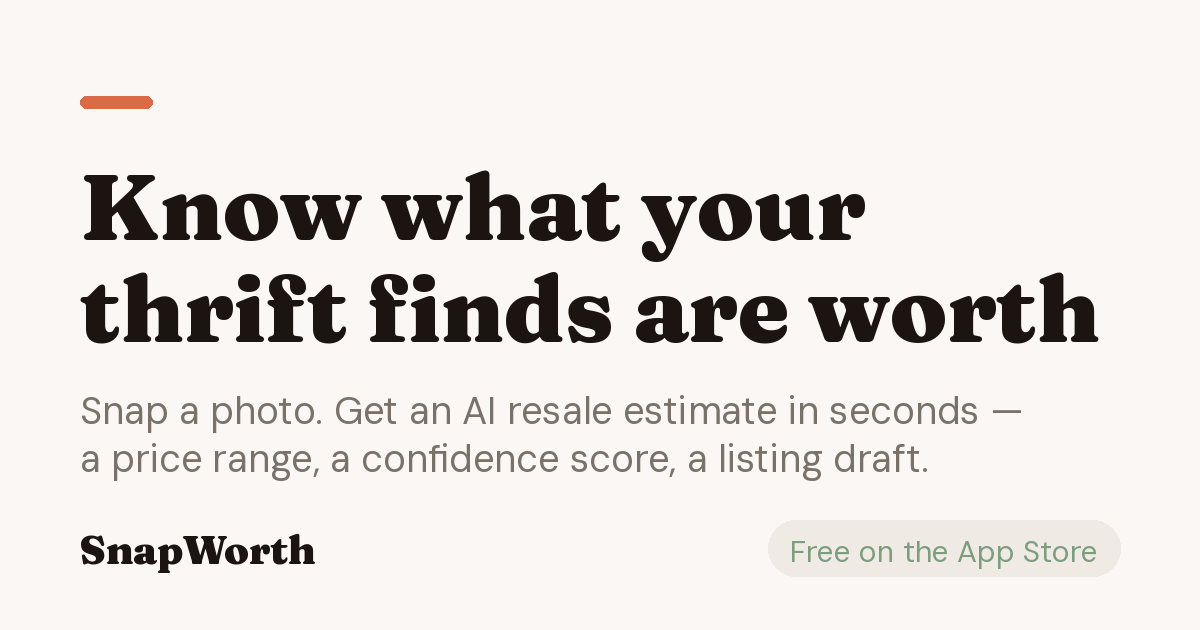
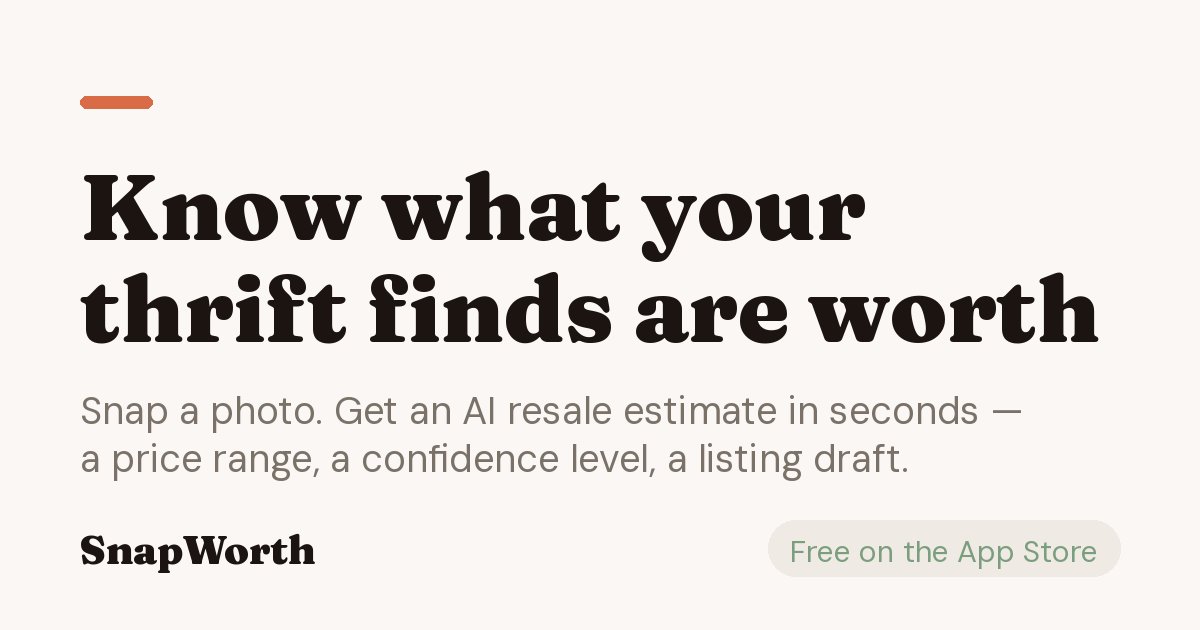
website: name all nine marketplaces, and "confidence level" everywhere
The homepage named seven marketplaces in the strip under the hero, the
listing-writer feature, the FAQ ("seven, each in that marketplace's own
voice") and the FAQ's JSON-LD. The app has nine since f784da8 added
Kleinanzeigen and 闲鱼 (Xianyu) in 1.4.2, and the backend writes listings
for both. The calculator's FEES table already carried both rates, but no
chip could select them. The German and Chinese visitors 1.4.2 was built
for didn't see their marketplace named anywhere on the page.

Both now appear in each list, and as two more calculator chips. The fee
footnote under the calculator adds both to the no-seller-fee sentence,
which is what MarketplaceFees.defaults says. 闲鱼 is marked lang="zh-Hans"
so a screen reader switches voice for it, with the romanised name after
it for everyone else.

"Confidence score" was replaced with "confidence level" on index.html and
support.html in cb92610, because the app shows a band, not a number. The
two generators were missed: build_seo.py wrote "score" into all 17 /worth
pages, and build_og_image.py baked it into og-image.png, the preview on
every shared link. Both say "level" now. The pages and the image are
regenerated. The image differs from the old one only in that line (pixel
diff bbox 571,443–927,481); the unchanged generator reproduced the
committed PNG byte for byte before the edit.

Changed region(s): [[0.4625, 0.6937, 0.7708, 0.7841]]

diff --git a/website/index.html b/website/index.html
@@ -1858,9 +1858,9 @@ details[open] .faq-x::after { transform: rotate(90deg); }
                   </div>
                   <div class="app-card">
                     <div class="app-card-label">Sell it on</div>
-                    <!-- Three, not all seven: .pf-chip is flex:1 in a 184px row, so a
+                    <!-- Three, not all nine: .pf-chip is flex:1 in a 184px row, so a
                          fourth label squeezes every pill to min-content and the text
-                         touches the border. The strip below the hero names all seven. -->
+                         touches the border. The strip below the hero names all nine. -->
                     <div class="pf-chips">
                       <span class="pf-chip is-on">Poshmark</span>
                       <span class="pf-chip">Mercari</span>
@@ -1940,7 +1940,7 @@ details[open] .faq-x::after { transform: rotate(90deg); }
       <div class="hd-strip">
         <span class="hd-strip-label">Listing drafts written for</span>
         <div class="hd-strip-list">
-          <span>Poshmark</span><span>Mercari</span><span>Depop</span><span>eBay</span><span>Vinted</span><span>Facebook Marketplace</span><span>OLX</span>
+          <span>Poshmark</span><span>Mercari</span><span>Depop</span><span>eBay</span><span>Vinted</span><span>Facebook Marketplace</span><span>OLX</span><span>Kleinanzeigen</span><span><span lang="zh-Hans">闲鱼</span> (Xianyu)</span>
         </div>
       </div>
     </div>
@@ -2011,9 +2011,9 @@ details[open] .faq-x::after { transform: rotate(90deg); }
        A live calculator, not a screenshot of one. Fee rates are the ones the
        app actually uses (MarketplaceFees.swift): Poshmark 20% (a flat $2.95
        under $15), Mercari 10%, Depop 3.3% + $0.45, eBay 13.25% + $0.40;
-       Vinted, Facebook Marketplace and OLX take no seller fee. A calculator on
-       the marketing site that disagreed with the product would be worse than
-       none.
+       Vinted, Facebook Marketplace, OLX, Kleinanzeigen and Xianyu take no
+       seller fee. A calculator on the marketing site that disagreed with the
+       product would be worse than none.
 
        Rendered with real default values in the HTML, so with JavaScript off it
        still reads as a worked example rather than a set of empty boxes. -->
@@ -2043,6 +2043,8 @@ details[open] .faq-x::after { transform: rotate(90deg); }
               <button type="button" class="tf-chip" data-mp="vinted" aria-pressed="false">Vinted</button>
               <button type="button" class="tf-chip" data-mp="facebook" aria-pressed="false">Facebook Marketplace</button>
               <button type="button" class="tf-chip" data-mp="olx" aria-pressed="false">OLX</button>
+              <button type="button" class="tf-chip" data-mp="kleinanzeigen" aria-pressed="false">Kleinanzeigen</button>
+              <button type="button" class="tf-chip" data-mp="xianyu" aria-pressed="false"><span lang="zh-Hans">闲鱼</span> (Xianyu)</button>
             </div>
           </div>
           <div class="tf-inputs">
@@ -2106,7 +2108,7 @@ details[open] .faq-x::after { transform: rotate(90deg); }
           <a href="#pricing" class="tf-foot-cta">See pricing</a>
         </div>
         <div class="tf-foot-note">
-          Poshmark takes <strong>20%</strong>, or a flat <strong>$2.95</strong> on sales under $15. Mercari takes <strong>10%</strong>, Depop <strong>3.3% + $0.45</strong> and eBay <strong>13.25% + $0.40</strong>. Vinted, Facebook Marketplace and OLX take no seller fee, so the only costs are the shop price and shipping. Rates are approximate and reviewed against each marketplace&rsquo;s published schedule.
+          Poshmark takes <strong>20%</strong>, or a flat <strong>$2.95</strong> on sales under $15. Mercari takes <strong>10%</strong>, Depop <strong>3.3% + $0.45</strong> and eBay <strong>13.25% + $0.40</strong>. Vinted, Facebook Marketplace, OLX, Kleinanzeigen and <span lang="zh-Hans">闲鱼</span> (Xianyu) take no seller fee, so the only costs are the shop price and shipping. Rates are approximate and reviewed against each marketplace&rsquo;s published schedule.
         </div>
       </div>
     </div>
@@ -2181,7 +2183,7 @@ details[open] .faq-x::after { transform: rotate(90deg); }
         <div class="feature">
           <div class="feature-icon"><svg viewBox="0 0 24 24" fill="none" stroke="currentColor" stroke-width="1.7" stroke-linecap="round" stroke-linejoin="round" aria-hidden="true"><path d="m13.2 5.8 5 5L8 21H3v-5z"/><path d="m16 3 5 5"/><path d="m8.5 15.5 5-5"/></svg></div>
           <h3>AI listing writer</h3>
-          <p>Tap once on any scan and Pro writes a compelling, SEO-optimized title and description in the voice of the marketplace you pick &mdash; Poshmark, Mercari, Depop, eBay, Vinted, Facebook Marketplace or OLX.</p>
+          <p>Tap once on any scan and Pro writes a compelling, SEO-optimized title and description in the voice of the marketplace you pick &mdash; Poshmark, Mercari, Depop, eBay, Vinted, Facebook Marketplace, OLX, Kleinanzeigen or <span lang="zh-Hans">闲鱼</span> (Xianyu).</p>
         </div>
         <div class="feature">
           <div class="feature-icon"><svg viewBox="0 0 24 24" fill="none" stroke="currentColor" stroke-width="1.7" stroke-linecap="round" stroke-linejoin="round" aria-hidden="true"><path d="M4 8h16v11.2c0 .7-.6 1.3-1.3 1.3H5.3c-.7 0-1.3-.6-1.3-1.3z"/><path d="M3 4.5h18V8H3z"/><path d="M9.8 12h4.4"/></svg></div>
@@ -2291,7 +2293,7 @@ details[open] .faq-x::after { transform: rotate(90deg); }
           </details>
           <details>
             <summary>Which marketplaces does it cover?<span class="faq-x" aria-hidden="true"></span></summary>
-            <p>Listing drafts are written for Poshmark, Mercari, Depop, eBay, Vinted, Facebook Marketplace and OLX &mdash; seven, each in that marketplace&rsquo;s own voice. Thrift Flip runs the profit math with each one&rsquo;s real seller fees &mdash; the same rates the app uses, so the number you see here is the number you&rsquo;d see there.</p>
+            <p>Listing drafts are written for Poshmark, Mercari, Depop, eBay, Vinted, Facebook Marketplace, OLX, Kleinanzeigen and <span lang="zh-Hans">闲鱼</span> (Xianyu) &mdash; nine, each in that marketplace&rsquo;s own voice. Thrift Flip runs the profit math with each one&rsquo;s real seller fees &mdash; the same rates the app uses, so the number you see here is the number you&rsquo;d see there.</p>
           </details>
           <details>
             <summary>Where does my scan history live?<span class="faq-x" aria-hidden="true"></span></summary>
@@ -2310,7 +2312,7 @@ details[open] .faq-x::after { transform: rotate(90deg); }
     {"@type":"Question","name":"How accurate are the estimates?","acceptedAnswer":{"@type":"Answer","text":"Each scan returns a price range and a confidence level, drawn from the AI's broad knowledge of what things typically resell for — not live marketplace comps, and not an appraisal. Clear photos of tags and logos get the best results."}},
     {"@type":"Question","name":"Is it really free?","acceptedAnswer":{"@type":"Answer","text":"Yes — one free scan a day, forever, with no account and no card. Pro removes the daily limit and adds the AI listing writer: $4.99 a month, or $39.99 a year with a 3-day free trial."}},
     {"@type":"Question","name":"What can I scan?","acceptedAnswer":{"@type":"Answer","text":"Anything secondhand: clothing, shoes, bags, kitchenware, electronics, furniture and collectibles."}},
-    {"@type":"Question","name":"Which marketplaces does it cover?","acceptedAnswer":{"@type":"Answer","text":"Listing drafts are written for Poshmark, Mercari, Depop, eBay, Vinted, Facebook Marketplace and OLX, each in that marketplace's own voice, and Thrift Flip runs the profit math with each one's real seller fees."}},
+    {"@type":"Question","name":"Which marketplaces does it cover?","acceptedAnswer":{"@type":"Answer","text":"Listing drafts are written for Poshmark, Mercari, Depop, eBay, Vinted, Facebook Marketplace, OLX, Kleinanzeigen and 闲鱼 (Xianyu), each in that marketplace's own voice, and Thrift Flip runs the profit math with each one's real seller fees."}},
     {"@type":"Question","name":"Where does my scan history live?","acceptedAnswer":{"@type":"Answer","text":"On your device. Your finds are saved locally — searchable, sortable by value, with a running portfolio total."}},
     {"@type":"Question","name":"Is there an Android version?","acceptedAnswer":{"@type":"Answer","text":"SnapWorth is iPhone-only today."}}
   ]}
@@ -2666,7 +2668,7 @@ details[open] .faq-x::after { transform: rotate(90deg); }
  *   Mercari  10%
  *   Depop    3.3% + $0.45
  *   eBay     13.25% + $0.40
- *   Vinted / Facebook Marketplace / OLX — no seller fee
+ *   Vinted / Facebook Marketplace / OLX / Kleinanzeigen / Xianyu — no seller fee
  * If those change in the app, change them here too. A marketing calculator
  * that disagrees with the product is worse than no calculator.
  *

diff --git a/website/worth/index.html b/website/worth/index.html
@@ -101,7 +101,7 @@ footer.site a{color:var(--warm-gray);margin-right:16px;}
 <p class="lede">Typical secondhand resale values for popular items, plus what drives the price and where to sell. Want a range for your own item and its condition? Snap a photo with SnapWorth.</p>
 <p class="hub-game">Or find out how good your eye already is &mdash; <a href="/guess">guess the price on ten of these</a>.</p>
 <h2>Accessories</h2><div class='grid'><a href="/worth/ray-ban-wayfarer-sunglasses">Ray-Ban Wayfarer Sunglasses<span>$30–$90</span></a></div><h2>Bags</h2><div class='grid'><a href="/worth/coach-leather-handbag">Coach Leather Handbag<span>$40–$150</span></a></div><h2>Clothing</h2><div class='grid'><a href="/worth/patagonia-better-sweater">Patagonia Better Sweater<span>$25–$85</span></a><a href="/worth/north-face-nuptse-700">The North Face Nuptse 700<span>$80–$200</span></a><a href="/worth/levis-501-vintage">Vintage Levi&#x27;s 501 Jeans<span>$20–$90</span></a><a href="/worth/carhartt-detroit-jacket">Carhartt Detroit Jacket<span>$45–$150</span></a><a href="/worth/lululemon-align-leggings">Lululemon Align Leggings<span>$20–$60</span></a><a href="/worth/ralph-lauren-polo-sweater">Ralph Lauren Polo Sweater<span>$20–$70</span></a><a href="/worth/vintage-band-t-shirt">Vintage Band T-Shirt<span>$25–$200</span></a></div><h2>Home</h2><div class='grid'><a href="/worth/le-creuset-dutch-oven">Le Creuset Dutch Oven<span>$70–$250</span></a><a href="/worth/vintage-pyrex-bowls">Vintage Pyrex Bowls<span>$18–$120</span></a><a href="/worth/stanley-quencher-tumbler">Stanley Quencher Tumbler<span>$20–$60</span></a><a href="/worth/kitchenaid-stand-mixer">KitchenAid Stand Mixer<span>$120–$300</span></a></div><h2>Shoes</h2><div class='grid'><a href="/worth/nike-air-max-90">Nike Air Max 90<span>$40–$120</span></a><a href="/worth/dr-martens-1460-boots">Dr. Martens 1460 Boots<span>$40–$110</span></a><a href="/worth/birkenstock-arizona-sandals">Birkenstock Arizona Sandals<span>$25–$70</span></a></div>
-<div class="cta"><h3>Check your own item in seconds</h3><p>Typical ranges only go so far. Snap a photo of your thrift find and SnapWorth's AI estimates a resale range for your item and its condition, with a confidence score.</p><a href="https://apps.apple.com/us/app/snapworth-resale-scanner/id6788521307">Download SnapWorth — free</a></div>
+<div class="cta"><h3>Check your own item in seconds</h3><p>Typical ranges only go so far. Snap a photo of your thrift find and SnapWorth's AI estimates a resale range for your item and its condition, with a confidence level.</p><a href="https://apps.apple.com/us/app/snapworth-resale-scanner/id6788521307">Download SnapWorth — free</a></div>
 </div></main>
 <footer class="site"><div class="wrap"><a href="/">Home</a><a href="/worth">Resale Values</a><a href="/support">Support</a><a href="https://api.snapworth.eu/privacy">Privacy</a><div style="margin-top:12px">© 2026 SnapWorth</div></div></footer>
 </body></html>

diff --git a/website/worth/levis-501-vintage.html b/website/worth/levis-501-vintage.html
@@ -114,7 +114,7 @@ footer.site a{color:var(--warm-gray);margin-right:16px;}
 <h2>Best places to sell Vintage Levi&#x27;s 501 Jeans</h2>
 <ul><li>eBay</li><li>Depop</li><li>Etsy</li><li>Grailed</li></ul>
 
-<div class="cta"><h3>Check your own item in seconds</h3><p>Typical ranges only go so far. Snap a photo of your Vintage Levi&#x27;s 501 Jeans and SnapWorth's AI estimates a resale range for your item and its condition, with a confidence score.</p><a href="https://apps.apple.com/us/app/snapworth-resale-scanner/id6788521307">Download SnapWorth — free</a></div>
+<div class="cta"><h3>Check your own item in seconds</h3><p>Typical ranges only go so far. Snap a photo of your Vintage Levi&#x27;s 501 Jeans and SnapWorth's AI estimates a resale range for your item and its condition, with a confidence level.</p><a href="https://apps.apple.com/us/app/snapworth-resale-scanner/id6788521307">Download SnapWorth — free</a></div>
 
 <h2>Frequently asked questions</h2>
 <details><summary>What makes vintage Levi&#x27;s valuable?</summary><p>Age markers like the big-E tab, single-stitch details, made-in-USA construction, and selvedge denim drive value. Natural fading is often a plus for vintage buyers.</p></details><details><summary>Should I list jeans by tag size or measured size?</summary><p>Always include measured waist and inseam. Vintage sizing runs small and buyers filter by measurements, which reduces returns and raises trust.</p></details>

diff --git a/website/worth/patagonia-better-sweater.html b/website/worth/patagonia-better-sweater.html
@@ -114,7 +114,7 @@ footer.site a{color:var(--warm-gray);margin-right:16px;}
 <h2>Best places to sell a Patagonia Better Sweater</h2>
 <ul><li>Poshmark</li><li>eBay</li><li>Grailed</li><li>Depop</li></ul>
 
-<div class="cta"><h3>Check your own item in seconds</h3><p>Typical ranges only go so far. Snap a photo of your Patagonia Better Sweater and SnapWorth's AI estimates a resale range for your item and its condition, with a confidence score.</p><a href="https://apps.apple.com/us/app/snapworth-resale-scanner/id6788521307">Download SnapWorth — free</a></div>
+<div class="cta"><h3>Check your own item in seconds</h3><p>Typical ranges only go so far. Snap a photo of your Patagonia Better Sweater and SnapWorth's AI estimates a resale range for your item and its condition, with a confidence level.</p><a href="https://apps.apple.com/us/app/snapworth-resale-scanner/id6788521307">Download SnapWorth — free</a></div>
 
 <h2>Frequently asked questions</h2>
 <details><summary>Are older Patagonia fleeces worth more?</summary><p>Some discontinued colorways and vintage Synchilla pieces command a premium, but most Better Sweaters resell on condition and color rather than age.</p></details><details><summary>Does Patagonia&#x27;s warranty affect resale?</summary><p>Yes — Patagonia&#x27;s Ironclad Guarantee and repair service give buyers confidence, which supports higher secondhand prices than comparable fleeces.</p></details>

diff --git a/website/worth/north-face-nuptse-700.html b/website/worth/north-face-nuptse-700.html
@@ -114,7 +114,7 @@ footer.site a{color:var(--warm-gray);margin-right:16px;}
 <h2>Best places to sell a North Face Nuptse 700</h2>
 <ul><li>Grailed</li><li>eBay</li><li>Depop</li><li>Poshmark</li></ul>
 
-<div class="cta"><h3>Check your own item in seconds</h3><p>Typical ranges only go so far. Snap a photo of your North Face Nuptse 700 and SnapWorth's AI estimates a resale range for your item and its condition, with a confidence score.</p><a href="https://apps.apple.com/us/app/snapworth-resale-scanner/id6788521307">Download SnapWorth — free</a></div>
+<div class="cta"><h3>Check your own item in seconds</h3><p>Typical ranges only go so far. Snap a photo of your North Face Nuptse 700 and SnapWorth's AI estimates a resale range for your item and its condition, with a confidence level.</p><a href="https://apps.apple.com/us/app/snapworth-resale-scanner/id6788521307">Download SnapWorth — free</a></div>
 
 <h2>Frequently asked questions</h2>
 <details><summary>How do I tell a real Nuptse from a fake?</summary><p>Check the stitching on the logo, the RDS down tag, zipper quality, and the interior neck label. Replicas are common, so clear photos raise buyer trust and price.</p></details><details><summary>When do puffers sell for the most?</summary><p>Demand and prices peak in autumn and early winter. Listing in September–December typically gets the best offers.</p></details>

diff --git a/website/worth/vintage-band-t-shirt.html b/website/worth/vintage-band-t-shirt.html
@@ -114,7 +114,7 @@ footer.site a{color:var(--warm-gray);margin-right:16px;}
 <h2>Best places to sell a Vintage Band T-Shirt</h2>
 <ul><li>Depop</li><li>eBay</li><li>Etsy</li><li>Grailed</li></ul>
 
-<div class="cta"><h3>Check your own item in seconds</h3><p>Typical ranges only go so far. Snap a photo of your Vintage Band T-Shirt and SnapWorth's AI estimates a resale range for your item and its condition, with a confidence score.</p><a href="https://apps.apple.com/us/app/snapworth-resale-scanner/id6788521307">Download SnapWorth — free</a></div>
+<div class="cta"><h3>Check your own item in seconds</h3><p>Typical ranges only go so far. Snap a photo of your Vintage Band T-Shirt and SnapWorth's AI estimates a resale range for your item and its condition, with a confidence level.</p><a href="https://apps.apple.com/us/app/snapworth-resale-scanner/id6788521307">Download SnapWorth — free</a></div>
 
 <h2>Frequently asked questions</h2>
 <details><summary>How do I know if a band tee is truly vintage?</summary><p>Single-stitch hems, tag brands like Brockum, Giant, or Anvil, and a soft, worn feel indicate true vintage. Reprints use modern double-stitch and tags.</p></details><details><summary>Which band tees sell for the most?</summary><p>Rare metal, rap, and grunge tour tees from the &#x27;80s–&#x27;90s command the highest prices, especially in larger sizes.</p></details>

diff --git a/website/worth/stanley-quencher-tumbler.html b/website/worth/stanley-quencher-tumbler.html
@@ -114,7 +114,7 @@ footer.site a{color:var(--warm-gray);margin-right:16px;}
 <h2>Best places to sell a Stanley Quencher Tumbler</h2>
 <ul><li>Mercari</li><li>eBay</li><li>Poshmark</li><li>Facebook Marketplace</li></ul>
 
-<div class="cta"><h3>Check your own item in seconds</h3><p>Typical ranges only go so far. Snap a photo of your Stanley Quencher Tumbler and SnapWorth's AI estimates a resale range for your item and its condition, with a confidence score.</p><a href="https://apps.apple.com/us/app/snapworth-resale-scanner/id6788521307">Download SnapWorth — free</a></div>
+<div class="cta"><h3>Check your own item in seconds</h3><p>Typical ranges only go so far. Snap a photo of your Stanley Quencher Tumbler and SnapWorth's AI estimates a resale range for your item and its condition, with a confidence level.</p><a href="https://apps.apple.com/us/app/snapworth-resale-scanner/id6788521307">Download SnapWorth — free</a></div>
 
 <h2>Frequently asked questions</h2>
 <details><summary>Why do some Stanley cups resell above retail?</summary><p>Limited drops and collaborations (e.g. holiday and brand partnerships) sell out fast, pushing secondhand prices above the original price.</p></details><details><summary>Do used Stanley tumblers sell?</summary><p>Yes, at a discount — especially popular or discontinued colors, provided the lid and straw are included.</p></details>

diff --git a/website/worth/vintage-pyrex-bowls.html b/website/worth/vintage-pyrex-bowls.html
@@ -114,7 +114,7 @@ footer.site a{color:var(--warm-gray);margin-right:16px;}
 <h2>Best places to sell Vintage Pyrex Bowls</h2>
 <ul><li>eBay</li><li>Etsy</li><li>Facebook Marketplace</li><li>Mercari</li></ul>
 
-<div class="cta"><h3>Check your own item in seconds</h3><p>Typical ranges only go so far. Snap a photo of your Vintage Pyrex Bowls and SnapWorth's AI estimates a resale range for your item and its condition, with a confidence score.</p><a href="https://apps.apple.com/us/app/snapworth-resale-scanner/id6788521307">Download SnapWorth — free</a></div>
+<div class="cta"><h3>Check your own item in seconds</h3><p>Typical ranges only go so far. Snap a photo of your Vintage Pyrex Bowls and SnapWorth's AI estimates a resale range for your item and its condition, with a confidence level.</p><a href="https://apps.apple.com/us/app/snapworth-resale-scanner/id6788521307">Download SnapWorth — free</a></div>
 
 <h2>Frequently asked questions</h2>
 <details><summary>Which Pyrex patterns are most valuable?</summary><p>Rare promotional patterns like Lucky in Love, Pink Gooseberry, and Atomic Eyes command the highest prices; common patterns still sell well as sets.</p></details><details><summary>How does fading affect Pyrex value?</summary><p>Bright, un-faded prints sell for significantly more. Dishwasher-dulled pieces drop in value but still have a market.</p></details>

diff --git a/website/worth/lululemon-align-leggings.html b/website/worth/lululemon-align-leggings.html
@@ -114,7 +114,7 @@ footer.site a{color:var(--warm-gray);margin-right:16px;}
 <h2>Best places to sell Lululemon Align Leggings</h2>
 <ul><li>Poshmark</li><li>Mercari</li><li>eBay</li><li>Depop</li></ul>
 
-<div class="cta"><h3>Check your own item in seconds</h3><p>Typical ranges only go so far. Snap a photo of your Lululemon Align Leggings and SnapWorth's AI estimates a resale range for your item and its condition, with a confidence score.</p><a href="https://apps.apple.com/us/app/snapworth-resale-scanner/id6788521307">Download SnapWorth — free</a></div>
+<div class="cta"><h3>Check your own item in seconds</h3><p>Typical ranges only go so far. Snap a photo of your Lululemon Align Leggings and SnapWorth's AI estimates a resale range for your item and its condition, with a confidence level.</p><a href="https://apps.apple.com/us/app/snapworth-resale-scanner/id6788521307">Download SnapWorth — free</a></div>
 
 <h2>Frequently asked questions</h2>
 <details><summary>Why do some Align colors sell for more?</summary><p>Discontinued or limited seasonal colors become collectible, and demand can exceed the original retail price.</p></details><details><summary>How do I prove Align leggings are authentic?</summary><p>Show the size dip tag inside and the rip tag with the style number. Clear tag photos reduce counterfeit concerns and raise price.</p></details>

diff --git a/website/worth/ray-ban-wayfarer-sunglasses.html b/website/worth/ray-ban-wayfarer-sunglasses.html
@@ -114,7 +114,7 @@ footer.site a{color:var(--warm-gray);margin-right:16px;}
 <h2>Best places to sell Ray-Ban Wayfarer Sunglasses</h2>
 <ul><li>eBay</li><li>Poshmark</li><li>Mercari</li><li>Vestiaire</li></ul>
 
-<div class="cta"><h3>Check your own item in seconds</h3><p>Typical ranges only go so far. Snap a photo of your Ray-Ban Wayfarer Sunglasses and SnapWorth's AI estimates a resale range for your item and its condition, with a confidence score.</p><a href="https://apps.apple.com/us/app/snapworth-resale-scanner/id6788521307">Download SnapWorth — free</a></div>
+<div class="cta"><h3>Check your own item in seconds</h3><p>Typical ranges only go so far. Snap a photo of your Ray-Ban Wayfarer Sunglasses and SnapWorth's AI estimates a resale range for your item and its condition, with a confidence level.</p><a href="https://apps.apple.com/us/app/snapworth-resale-scanner/id6788521307">Download SnapWorth — free</a></div>
 
 <h2>Frequently asked questions</h2>
 <details><summary>How do I authenticate Ray-Bans?</summary><p>Look for the etched &#x27;RB&#x27; on the left lens, engraved logo on the arm, and consistent branding. Photos of these details raise buyer trust.</p></details><details><summary>Do scratched sunglasses still sell?</summary><p>Yes, at a lower price. Replacement lenses are available, so scratched frames retain some value.</p></details>

diff --git a/website/worth/coach-leather-handbag.html b/website/worth/coach-leather-handbag.html
@@ -114,7 +114,7 @@ footer.site a{color:var(--warm-gray);margin-right:16px;}
 <h2>Best places to sell a Coach Leather Handbag</h2>
 <ul><li>Poshmark</li><li>eBay</li><li>Mercari</li><li>Vestiaire</li></ul>
 
-<div class="cta"><h3>Check your own item in seconds</h3><p>Typical ranges only go so far. Snap a photo of your Coach Leather Handbag and SnapWorth's AI estimates a resale range for your item and its condition, with a confidence score.</p><a href="https://apps.apple.com/us/app/snapworth-resale-scanner/id6788521307">Download SnapWorth — free</a></div>
+<div class="cta"><h3>Check your own item in seconds</h3><p>Typical ranges only go so far. Snap a photo of your Coach Leather Handbag and SnapWorth's AI estimates a resale range for your item and its condition, with a confidence level.</p><a href="https://apps.apple.com/us/app/snapworth-resale-scanner/id6788521307">Download SnapWorth — free</a></div>
 
 <h2>Frequently asked questions</h2>
 <details><summary>Are vintage Coach bags valuable?</summary><p>Many vintage all-leather Coach bags (e.g. the Willis or Bonnie Cashin era) resell well above modern coated-canvas styles.</p></details><details><summary>How do I authenticate a Coach bag?</summary><p>Check the interior creed patch and serial number, stitching quality, and hardware. Photos of these details raise buyer trust and price.</p></details>

diff --git a/website/worth/carhartt-detroit-jacket.html b/website/worth/carhartt-detroit-jacket.html
@@ -114,7 +114,7 @@ footer.site a{color:var(--warm-gray);margin-right:16px;}
 <h2>Best places to sell a Carhartt Detroit Jacket</h2>
 <ul><li>Grailed</li><li>eBay</li><li>Depop</li><li>Poshmark</li></ul>
 
-<div class="cta"><h3>Check your own item in seconds</h3><p>Typical ranges only go so far. Snap a photo of your Carhartt Detroit Jacket and SnapWorth's AI estimates a resale range for your item and its condition, with a confidence score.</p><a href="https://apps.apple.com/us/app/snapworth-resale-scanner/id6788521307">Download SnapWorth — free</a></div>
+<div class="cta"><h3>Check your own item in seconds</h3><p>Typical ranges only go so far. Snap a photo of your Carhartt Detroit Jacket and SnapWorth's AI estimates a resale range for your item and its condition, with a confidence level.</p><a href="https://apps.apple.com/us/app/snapworth-resale-scanner/id6788521307">Download SnapWorth — free</a></div>
 
 <h2>Frequently asked questions</h2>
 <details><summary>Is worn-in Carhartt worth more?</summary><p>Often yes — faded, broken-in Detroit jackets are prized for their look, provided seams, zippers, and lining are intact.</p></details><details><summary>How do I date a vintage Carhartt?</summary><p>Tag style, &#x27;Union Made&#x27; labels, and construction details help date pieces. Older union-made jackets typically resell higher.</p></details>
